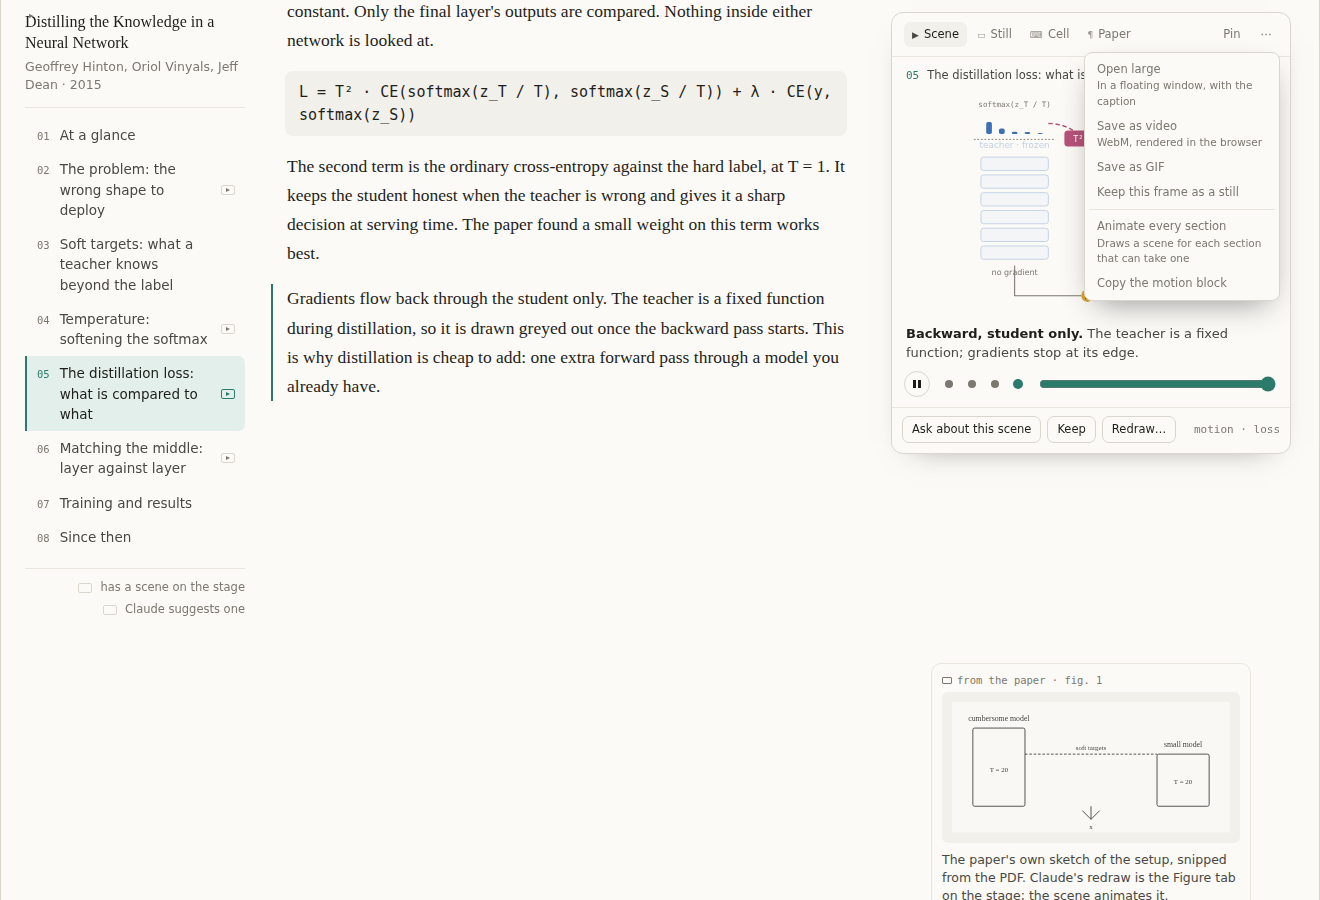
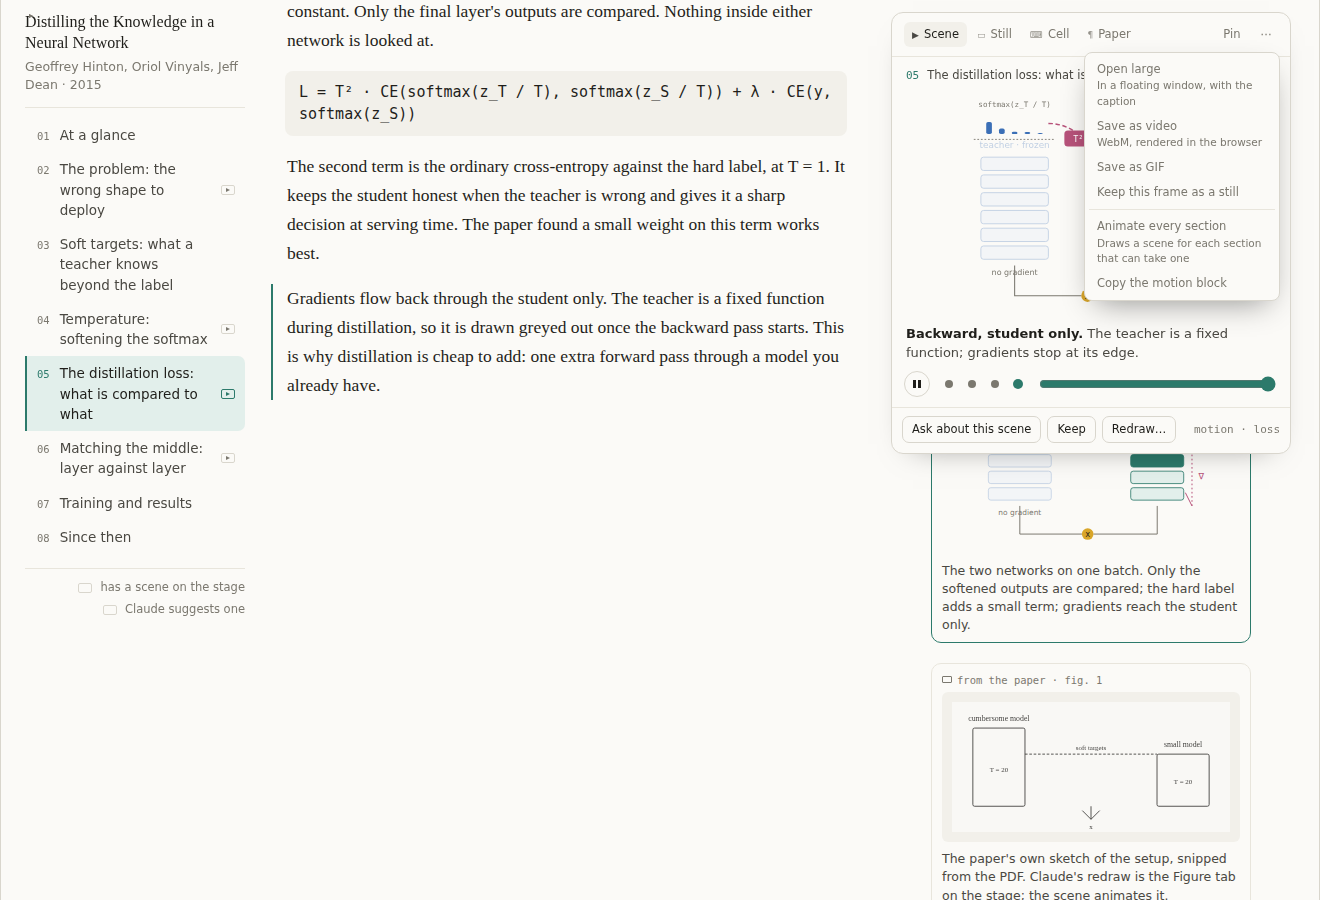
Explain stage: a switch in the bar that turns it off
Stage in the Explain bar, beside the layout switch and remembered the
same way, turns every part of the design off: no stage in any section,
no suggestion under any figure, no marks in the outline or the section
heads, every section with its figure in the margin as it is today.
Scenes already written stay in the page's Markdown and come back when it
is switched on. The mock-up has the switch, every section with a scene
now also has its figure in the margin so the page is whole with the
stage off, and two frames show the off state.

Claude-Session: https://claude.ai/code/session_014TyCDFZwzV96CYRn2RCE7Y

diff --git a/docs/mockups/stage-src/index.html b/docs/mockups/stage-src/index.html
@@ -54,6 +54,10 @@ button:focus-visible, input:focus-visible { outline: 2px solid var(--accent); ou
 .btn.sm { font-size: 11.5px; padding: 3px 8px; }
 .btn.ghost { border-color: transparent; color: var(--ink-2); }
 .btn.on { color: var(--accent); border-color: var(--accent); background: var(--accent-soft); }
+#stage-switch { display: inline-flex; align-items: center; gap: 5px; }
+#stage-switch[aria-pressed="false"] { color: var(--muted); }
+#stage-switch[aria-pressed="false"] svg { opacity: 0.4; }
+.mock.stage-off .outline .legend { display: none; }
 
 .ask { display: flex; justify-content: center; padding: 14px 16px; border-bottom: 1px solid var(--border-soft); background: var(--panel); }
 .ask .field { width: min(100%, 880px); display: flex; align-items: center; gap: 10px; padding: 10px 10px 10px 16px; border: 1px solid var(--border); border-radius: 12px; background: var(--paper); color: var(--muted); font-size: 15px; }
@@ -272,7 +276,7 @@ section.s + section.s { border-top: 1px solid var(--border-soft); padding-top: 3
     <div class="kicker">Explain · a side stage that follows the reading</div>
     <h1>A companion stage beside the explanation</h1>
     <p>The margin column holds each section's figure, cell and caveat, as it does today. In the few sections where motion says more than a still, a stage appears at the top of the margin, stays put while you scroll that section, and steps with the paragraph you are reading. The example is a distillation paper: the temperature, the loss and the layer matching are animated; the rest stay figures.</p>
-    <div class="try">Scroll the explanation below. Every section has its figure in the margin, as today. Only 04, 05 and 06 have a scene: there the stage appears at the top of the margin, follows the paragraphs, and leaves when the section ends. On 02, Claude suggests a scene: press <kbd>Animate</kbd> on its figure and watch it stream in. <kbd>Pin</kbd> holds a scene; the dots or the slider step by hand.</div>
+    <div class="try">Scroll the explanation below. Every section has its figure in the margin, as today. Only 04, 05 and 06 have a scene: there the stage appears at the top of the margin, follows the paragraphs, and leaves when the section ends. On 02, Claude suggests a scene: press <kbd>Animate</kbd> on its figure and watch it stream in. <kbd>Pin</kbd> holds a scene; the dots or the slider step by hand. <kbd>Stage</kbd> in the bar turns all of it off: every section with its figure in the margin, as it was.</div>
   </div>
 
   <div class="mock">
@@ -287,7 +291,7 @@ section.s + section.s { border-top: 1px solid var(--border-soft); padding-top: 3
         <button type="button" aria-pressed="false">Notebook</button>
         <button type="button" aria-pressed="false">Beside the paper</button>
       </div>
-      <button type="button" class="btn sm on">Stage</button>
+      <button type="button" class="btn sm on" id="stage-switch" aria-pressed="true" title="Scenes on the stage, where a section has one. Off: every section with its figure in the margin, as it was."><svg width="10" height="10" viewBox="0 0 10 10" aria-hidden="true"><path d="M2 1 L9 5 L2 9 z" fill="currentColor"/></svg> Stage</button>
       <button type="button" class="btn sm ghost">Rewrite</button>
     </div>
     <div class="ask"><div class="field">✦ Ask anything about this explanation, or tell Claude how to change it… <span class="go">Ask</span></div></div>
@@ -383,6 +387,11 @@ section.s + section.s { border-top: 1px solid var(--border-soft); padding-top: 3
             </div>
           </div>
             <div class="s-side">
+            <figure class="margin-item explain-figure" data-anchor="s-temp:0" data-still="temp">
+              <div class="fig-kind"><i></i> figure · drawn by Claude</div>
+              <svg viewBox="0 0 360 250" role="img" aria-label="Figure"></svg>
+              <figcaption>The softmax of the same five logits at a temperature T, and the T² factor that keeps the two loss terms comparable.</figcaption>
+            </figure>
             <figure class="margin-item explain-figure" data-anchor="s-temp:2">
             <div class="fig-kind"><i></i> still · drawn by Claude</div>
             <svg viewBox="0 0 320 120" role="img" aria-label="The same five logits through the softmax at three temperatures">
@@ -405,6 +414,11 @@ section.s + section.s { border-top: 1px solid var(--border-soft); padding-top: 3
             </div>
           </div>
             <div class="s-side">
+            <figure class="margin-item explain-figure" data-anchor="s-loss:0" data-still="loss">
+              <div class="fig-kind"><i></i> figure · drawn by Claude</div>
+              <svg viewBox="0 0 360 250" role="img" aria-label="Figure"></svg>
+              <figcaption>The two networks on one batch. Only the softened outputs are compared; the hard label adds a small term; gradients reach the student only.</figcaption>
+            </figure>
             <figure class="margin-item explain-figure" data-anchor="s-loss:2">
             <div class="fig-kind"><i></i> from the paper · fig. 1</div>
             <div class="snip"><svg viewBox="0 0 320 150" aria-hidden="true"><rect x="0" y="0" width="320" height="150" class="f-paper"/><rect x="24" y="30" width="60" height="90" rx="2" class="f-none s-ink"/><rect x="236" y="60" width="60" height="60" rx="2" class="f-none s-ink"/><text x="54" y="22" font-size="9" text-anchor="middle" class="t-ink" font-family="serif">cumbersome model</text><text x="266" y="52" font-size="9" text-anchor="middle" class="t-ink" font-family="serif">small model</text><text x="54" y="80" font-size="8" text-anchor="middle" class="t-ink" font-family="serif">T = 20</text><text x="266" y="94" font-size="8" text-anchor="middle" class="t-ink" font-family="serif">T = 20</text><path d="M84 60 H 236" class="s-ink" stroke-dasharray="3 2" fill="none"/><text x="160" y="55" font-size="8" text-anchor="middle" class="t-ink" font-family="serif">soft targets</text><path d="M160 135 V 120 M150 125 L160 135 L170 125" class="s-ink" fill="none"/><text x="160" y="146" font-size="8" text-anchor="middle" class="t-ink" font-family="serif">x</text></svg></div>
@@ -424,6 +438,11 @@ section.s + section.s { border-top: 1px solid var(--border-soft); padding-top: 3
             </div>
           </div>
             <div class="s-side">
+            <figure class="margin-item explain-figure" data-anchor="s-layers:0" data-still="layers">
+              <div class="fig-kind"><i></i> figure · drawn by Claude</div>
+              <svg viewBox="0 0 360 250" role="img" aria-label="Figure"></svg>
+              <figcaption>Six teacher blocks against three student blocks: which is matched with which, and the loss on each link.</figcaption>
+            </figure>
             <aside class="margin-item explain-caveat" data-anchor="s-layers:1">
             <span class="v">Refined since</span>
             <b>Matching only the outputs</b>
@@ -524,6 +543,7 @@ soft 74</div>
       <div class="card pick"><h4>One drawing, two states</h4><p>The figure is the scene at rest. On the stage, the <b>Still</b> tab is its resting frame; steps, bound to paragraphs, animate it. The figure card stays in the margin under the stage, marked as the source. Keep and the notes always get the still.</p></div>
       <div class="card pick"><h4>Filmstrip and Paper tab</h4><p>A section with several pictures gets thumbnails under the stage: scene, still, the paper's own figure. The current one is outlined; a click shows any of them.</p></div>
       <div class="card pick"><h4>Bound to a cell when it should be</h4><p>A scene can name a cell. Until it runs, the scene shows Claude's illustrative values; after, the real ones, and the header says which cell and machine. The training section shows this.</p></div>
+      <div class="card pick"><h4>Off, if you want it off</h4><p><b>Stage</b> in the Explain bar, beside the layout switch and remembered like it, turns every part of this off: no stage, no suggestions, no marks, every section with its figure in the margin as it was. Scenes already written stay in the page's Markdown and come back when it is switched on.</p></div>
       <div class="card pick"><h4>Video is an export</h4><p>The stage's menu renders the scene to WebM or GIF in the browser and keeps a frame as a still. Nothing is generated as a video file; a video is made from the scene when someone wants one.</p></div>
     </div>
 
@@ -1099,14 +1119,17 @@ steps:
   const t0 = performance.now();
   const now = () => (performance.now() - t0) / 1000;
 
+  let stageOn = true;
+  try { stageOn = localStorage.getItem('stage-mock-on') !== 'off'; } catch (e) { /* no storage: scenes on */ }
   const isReady = (sc) => sc.ready !== false;
   function marks() {
-    document.querySelectorAll('#outline li').forEach((li) => { const sc = SCENES[li.dataset.for]; const mk = li.querySelector('.motion'); mk.classList.toggle('off', !isReady(sc) && !!sc.suggest); mk.classList.toggle('none', !isReady(sc) && !sc.suggest); });
+    document.querySelector('.mock').classList.toggle('stage-off', !stageOn);
+    document.querySelectorAll('#outline li').forEach((li) => { const sc = SCENES[li.dataset.for]; const mk = li.querySelector('.motion'); mk.classList.toggle('off', stageOn && !isReady(sc) && !!sc.suggest); mk.classList.toggle('none', !stageOn || (!isReady(sc) && !sc.suggest)); });
     document.querySelectorAll('.s-head .animate').forEach((b) => {
       const sc = SCENES[b.dataset.sec];
       const ready = isReady(sc);
-      b.hidden = !ready && !sc.suggest && !sc.drawing;
-      const row = document.querySelector('.suggest-row:has([data-sec="' + b.dataset.sec + '"])'); if (row) row.hidden = ready || !!sc.drawing;
+      b.hidden = !stageOn || (!ready && !sc.suggest && !sc.drawing);
+      const row = document.querySelector('.suggest-row:has([data-sec="' + b.dataset.sec + '"])'); if (row) row.hidden = !stageOn || ready || !!sc.drawing;
       b.classList.toggle('has', ready);
       b.innerHTML = sc.drawing ? 'Drawing…' : ready ? '<svg width="9" height="9" viewBox="0 0 10 10" aria-hidden="true"><path d="M2 1 L9 5 L2 9 z" fill="currentColor"/></svg> On the stage' : '<svg width="9" height="9" viewBox="0 0 10 10" aria-hidden="true"><path d="M2 1 L9 5 L2 9 z" fill="currentColor"/></svg> Animate';
       b.title = ready ? 'This section has a scene; the stage shows it as you read' : 'Ask Claude to draw a scene for this section';
@@ -1138,12 +1161,12 @@ steps:
   function mount(id) {
     const sc = SCENES[id];
     const side = document.querySelector('#s-' + id + ' .s-side');
-    if (isReady(sc) || sc.drawing) { if (stage.parentElement !== side) side.prepend(stage); }
+    if (stageOn && (isReady(sc) || sc.drawing)) { if (stage.parentElement !== side) side.prepend(stage); }
     else if (stage.parentElement !== home) home.appendChild(stage);
     document.querySelectorAll('.explain-figure.is-source').forEach((f) => f.classList.remove('is-source'));
     document.querySelectorAll('.s-main').forEach((m) => { m.style.paddingTop = ''; });
     if (window.innerWidth <= 1100 && stage.parentElement === side) requestAnimationFrame(() => { side.previousElementSibling.style.paddingTop = (stage.offsetHeight + 12) + 'px'; });
-    if ((isReady(sc) || sc.drawing) && side.querySelector('[data-still="' + id + '"]')) side.querySelector('[data-still="' + id + '"]').classList.add('is-source');
+    if (stageOn && (isReady(sc) || sc.drawing) && side.querySelector('[data-still="' + id + '"]')) side.querySelector('[data-still="' + id + '"]').classList.add('is-source');
     placeMargin();
   }
   // A still is the scene at rest: the same drawing, built once and left on its last step.
@@ -1265,6 +1288,16 @@ steps:
     };
     setTimeout(tick, 500);
   }
+  const stageSwitch = document.getElementById('stage-switch');
+  stageSwitch.addEventListener('click', () => {
+    stageOn = !stageOn;
+    stageSwitch.setAttribute('aria-pressed', String(stageOn));
+    stageSwitch.classList.toggle('on', stageOn);
+    try { localStorage.setItem('stage-mock-on', stageOn ? 'on' : 'off'); } catch (e) { /* fine */ }
+    marks();
+    if (current) mount(current);
+    placeMargin();
+  });
   document.querySelectorAll('.s-head .animate, .explain-figure .suggest').forEach((b) => b.addEventListener('click', () => {
     const id = b.dataset.sec;
     if (isReady(SCENES[id])) { document.getElementById('s-' + id).scrollIntoView({ behavior: 'smooth', block: 'start' }); return; }
@@ -1309,7 +1342,7 @@ steps:
       const sc = SCENES[sec.dataset.scene];
       const secTop = sec.getBoundingClientRect().top + window.scrollY;
       // A section with a scene keeps room for the stage at its top, whether or not the stage is in it right now.
-      const below = (isReady(sc) || sc.drawing) ? stageH + 24 : 0;
+      const below = stageOn && (isReady(sc) || sc.drawing) ? stageH + 24 : 0;
       let bottom = 0;
       side.querySelectorAll('.margin-item').forEach((item) => {
         const [id, idx] = item.dataset.anchor.split(':');
@@ -1338,6 +1371,7 @@ steps:
     });
   })();
 
+  stageSwitch.setAttribute('aria-pressed', String(stageOn)); stageSwitch.classList.toggle('on', stageOn);
   stageH = (() => { home.appendChild(stage); stage.style.display = 'block'; const h = stage.offsetHeight; stage.style.display = ''; return h; })();
   show('glance', 0);
   marks();

diff --git a/docs/explain-stage.md b/docs/explain-stage.md
@@ -116,6 +116,21 @@ consumer of the same run.
 
 ![Section 07: a static figure that says "curves from In [3], ran on T4", and its cell under it](mockups/stage-9-static-with-cell-chip.png)
 
+### Off, if you want it off
+
+**Stage** in the Explain bar, beside the layout switch and remembered the
+same way, turns every part of this off. With it off the page is the page
+as it is today: no stage in any section, no suggestion under any figure, no
+marks in the outline or the section heads, every section with its figure
+in the margin beside its paragraph. Scenes already written stay in the
+page's Markdown and come back when it is switched on again, so turning it
+off costs nothing and loses nothing. The same choice is in Settings, for a
+reader who never wants to be offered a scene.
+
+![The Explain bar with Stage switched off: the outline has no marks and section 02 has no Animate button](mockups/stage-13-stage-off.png)
+
+![Section 04 with Stage off: its figure in the margin beside its paragraph, nothing else](mockups/stage-14-stage-off-section.png)
+
 ### Video is an export
 
 Nothing is generated as a video file. The stage's menu renders the scene to
@@ -230,6 +245,10 @@ renders the scene to a GIF belongs in the exported notebook.
   column) for sections with a scene only.
 - **`src/styles.css`**: the stage, the suggestion row, the outline's two
   marks, the phone strip.
+- **The switch**: `Stage` in the bar beside the layout switch, kept in
+  `localStorage` the way the layout is (`readLayout` in `Explain.tsx`),
+  and the same setting in Settings. Off hides the stage, the suggestion
+  rows and the marks; the parsed `motion` blocks stay in the document.
 - **Keep and the notes**: a kept scene is its still, SVG, with the caption
   of the current step.
 - **Export**: WebM through `MediaRecorder` on a canvas copy of the SVG, GIF
